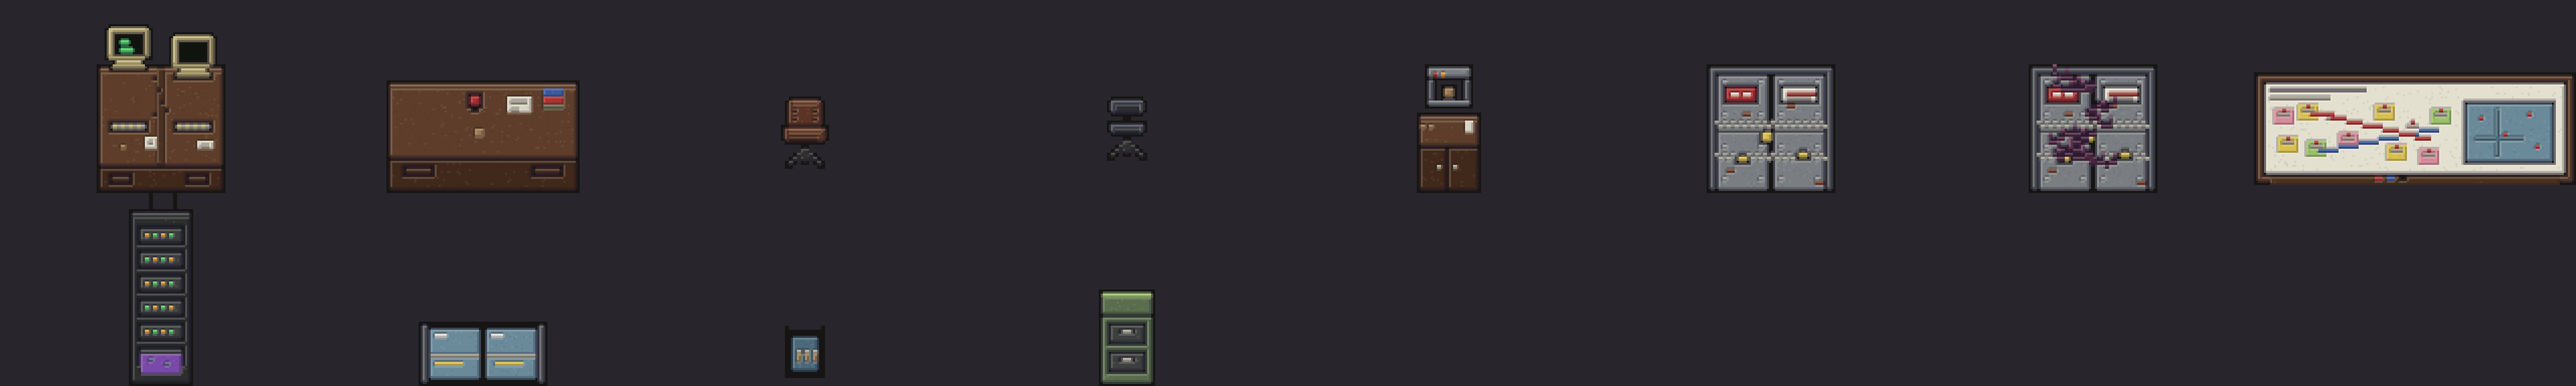
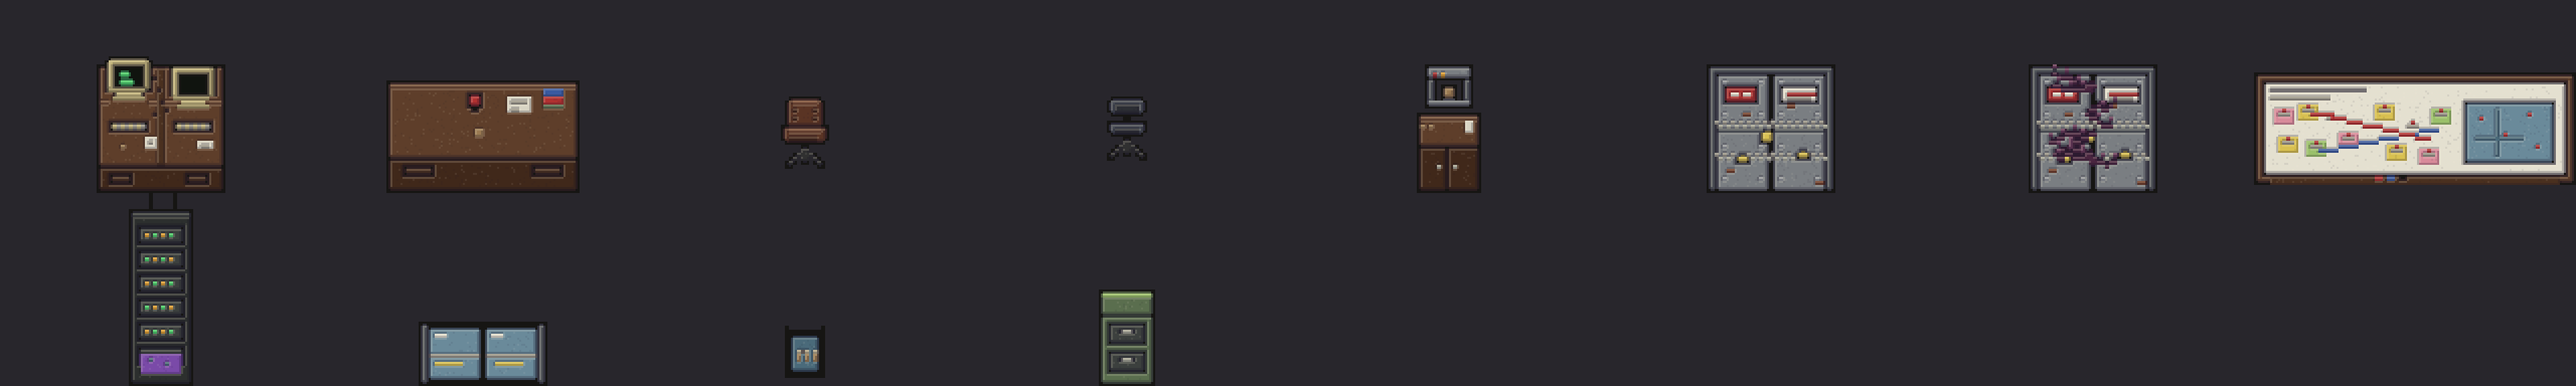
Fix the walkie pickup, seat the office monitors, make room for the NOC
The 32 px office change renamed the walkie prop's id along with its
sheet, so pressing E on it did nothing; the id is back to walkie. The
tech desks' monitors sit on the desktop instead of its back edge. The
right-hand tech pod is replaced by a grey-box NOC terminal (4x2) with a
chair, where tickets will come in once the NOC is built.

Claude-Session: https://claude.ai/code/session_018R13mVkJcuKLJPEhBX4x6i

Changed region(s): [[0.0312, 0.0625, 0.0938, 0.2812]]

diff --git a/src/game/rooms.ts b/src/game/rooms.ts
@@ -129,7 +129,7 @@ export const ROOMS: Record<RoomId, RoomDef> = {
       { id: "desk", label: "Bob's desk", x: 1, y: 9, w: 3, h: 1, verb: "Look at", color: 0x55524a, sprite: "office-props-32", frame: 1, card: "assets/cards/bobs-desk.webp" },
       { id: "armchair", label: "Armchair", x: 1, y: 12, w: 1, h: 1, verb: "", color: 0x4a3a44, decor: true, sprite: "office-props-32", frame: 2 },
       // The walkie's charger sits on a side table by the armchair (the table is part of its sprite).
-      { id: "walkie-32", label: "Walkie", x: 2, y: 12, w: 1, h: 1, verb: "Pick up", color: 0x4a5a4a, sprite: "walkie-32" },
+      { id: "walkie", label: "Walkie", x: 2, y: 12, w: 1, h: 1, verb: "Pick up", color: 0x4a5a4a, sprite: "walkie-32" },
       // Main office
       { id: "files", label: "Files", x: 8, y: 5, w: 1, h: 1, verb: "", color: 0x50504a, decor: true, sprite: "office-props-32", frame: 11 },
       { id: "files", label: "Files", x: 8, y: 7, w: 1, h: 2, verb: "", color: 0x50504a, decor: true, sprite: "store-decor-32", frame: 5 },
@@ -146,10 +146,10 @@ export const ROOMS: Record<RoomId, RoomDef> = {
       { id: "chair", label: "Chair", x: 9, y: 8, w: 1, h: 1, verb: "", color: 0x4a3a44, decor: true, sprite: "office-props-32", frame: 3 },
       { id: "chair", label: "Chair", x: 12, y: 7, w: 1, h: 1, verb: "", color: 0x4a3a44, decor: true, sprite: "office-props-32", frame: 3 },
       { id: "chair", label: "Chair", x: 12, y: 9, w: 1, h: 1, verb: "", color: 0x4a3a44, decor: true, sprite: "office-props-32", frame: 3 },
-      // The right-hand pod is one desk short, which opens the floor up toward the coffee.
-      { id: "techdesks", label: "Tech\ndesks", x: 15, y: 6, w: 2, h: 2, verb: "", color: 0x55524a, decor: true, sprite: "office-props-32", frame: 0 },
-      { id: "chair", label: "Chair", x: 14, y: 6, w: 1, h: 1, verb: "", color: 0x4a3a44, decor: true, sprite: "office-props-32", frame: 3 },
-      { id: "chair", label: "Chair", x: 17, y: 7, w: 1, h: 1, verb: "", color: 0x4a3a44, decor: true, sprite: "office-props-32", frame: 3 },
+      // The NOC terminal, where tickets come in from now on (Ant, 2026-11-12). It takes the right-hand
+      // tech pod's place. A grey box until its art and screens are designed.
+      { id: "noc", label: "NOC\nterminal", x: 14, y: 6, w: 4, h: 2, verb: "Use", color: 0x3c4a46 },
+      { id: "chair", label: "Chair", x: 15, y: 8, w: 1, h: 1, verb: "", color: 0x4a3a44, decor: true, sprite: "office-props-32", frame: 3 },
       { id: "files", label: "Files", x: 19, y: 5, w: 1, h: 2, verb: "", color: 0x50504a, decor: true, sprite: "store-decor-32", frame: 5 },
       { id: "files", label: "Files", x: 19, y: 7, w: 1, h: 1, verb: "", color: 0x50504a, decor: true, sprite: "office-props-32", frame: 11 },
       { id: "files", label: "Files", x: 19, y: 9, w: 1, h: 2, verb: "", color: 0x50504a, decor: true, sprite: "store-decor-32", frame: 5 },

diff --git a/src/game/story.ts b/src/game/story.ts
@@ -412,6 +412,10 @@ export class Story {
           { label: "Leave it", run: () => {} },
         ]);
         return;
+      case "office:noc":
+        // Placeholder until Ant's NOC plan is in: tickets will come in here.
+        ui.say([{ text: "The NOC terminal hums. Its screens show a login prompt that nobody has set up yet." }]);
+        return;
       case "shop:exit":
         if (this.flags.has("done")) ui.openTownMap("quikstop", { bobs: () => this.travel("office") });
         else ui.say(scene("shop-exit-early"));

diff --git a/art/source/props/make-office-32.py b/art/source/props/make-office-32.py
@@ -107,9 +107,31 @@ def linoleum(frame: int) -> Image.Image:
     return im
 
 
+def seat_monitors(src: Image.Image, drop: int = 8) -> Image.Image:
+    """The tech desks (frame 0, 80x48 cells) had their monitors perched on the back edge, as if
+    about to fall off. Lifts the monitors off and sets them down `drop` px onto the desktop."""
+    src = src.convert("RGBA")
+    px = src.load()
+    x0, x1, top, edge = 24, 56, 0, 19  # the desk cell's monitor band; the desk top starts at 16
+    desk = {px[x, y] for y in range(20, 26) for x in range(x0, x1)}
+    monitor = {}
+    for y in range(top, edge):
+        for x in range(x0, x1):
+            c = px[x, y]
+            if c[3] and (y < 16 or c not in desk):
+                monitor[(x, y)] = c
+                # Above the desk it's just air; on the desk's back edge, put the desk back.
+                px[x, y] = (0, 0, 0, 0) if y < 16 else px[x, y + 4]
+    for (x, y), c in monitor.items():
+        px[x, y + drop] = c
+    return src
+
+
 def main() -> None:
     for folder, name, grain in SHEETS:
         src = Image.open(SPRITES / folder / f"{name}.png")
+        if name == "office-props":
+            src = seat_monitors(src)
         out = upres(src, seed=len(name), grain=grain)
         if name == "office-tiles":
             # The floor row is drawn fresh at 32 px; the walls keep their doubled 16 px art.
